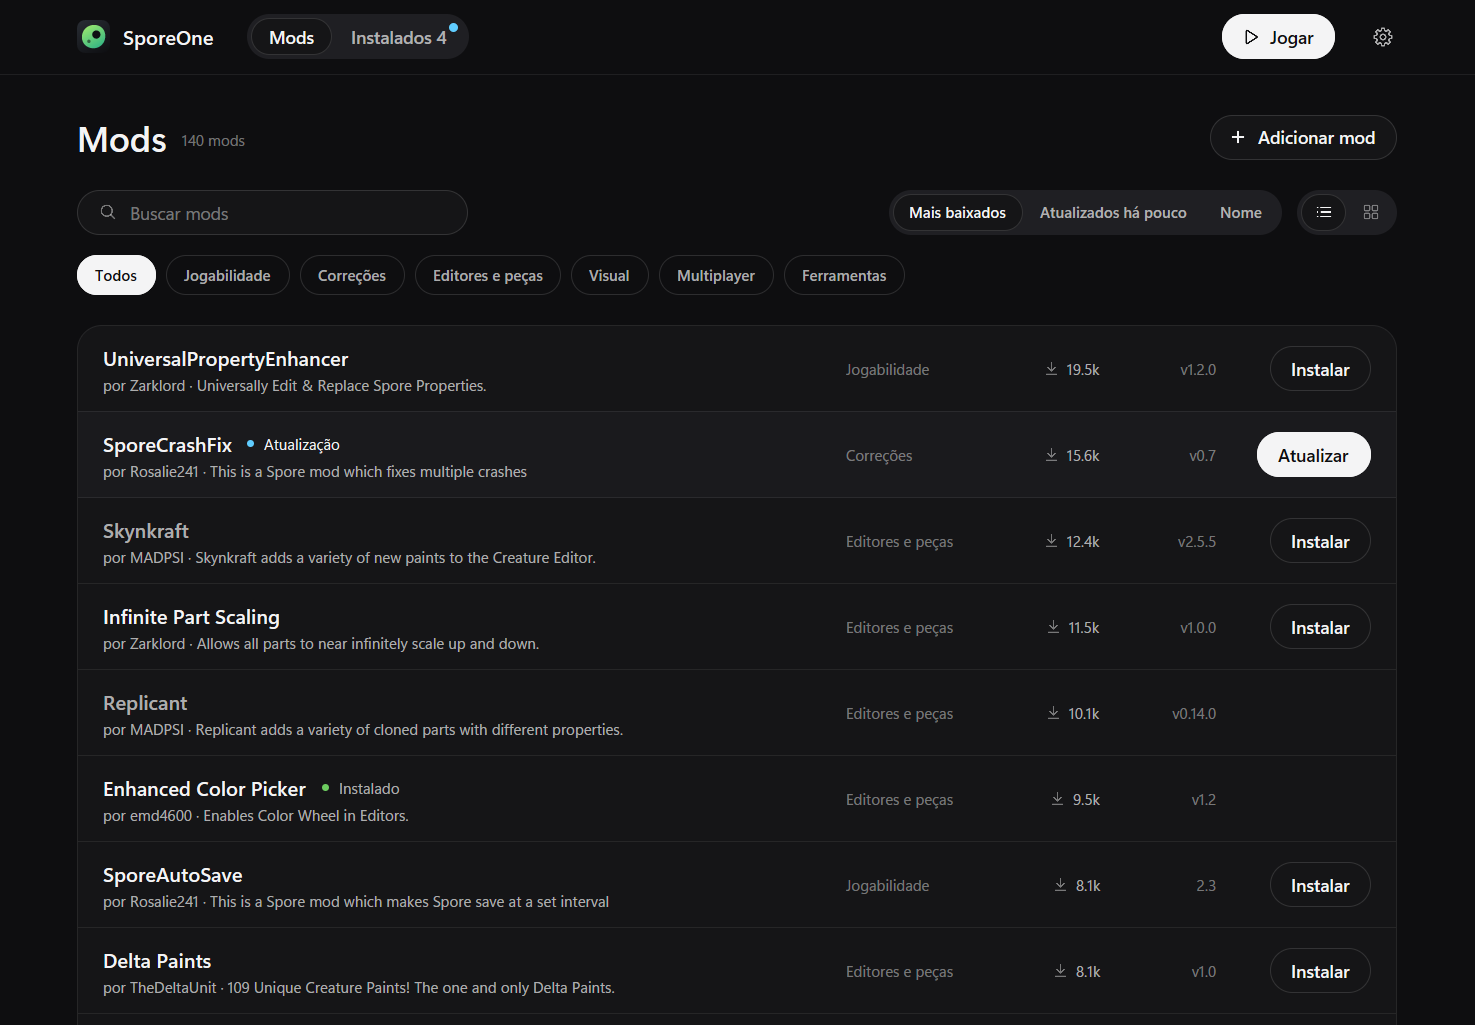
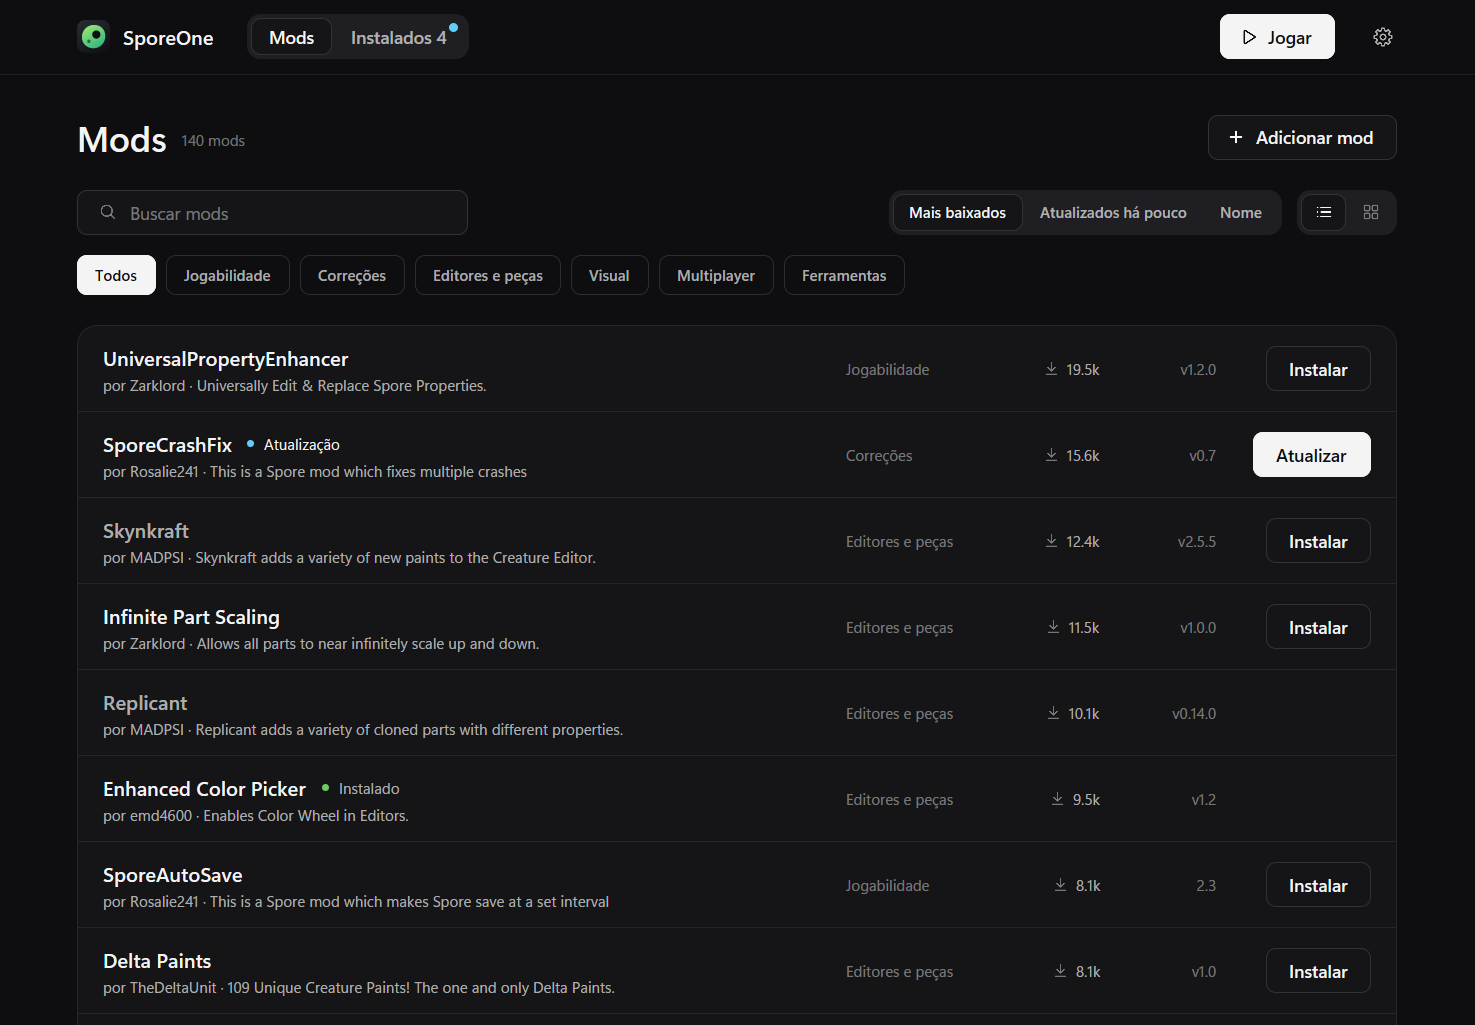
Release 0.0.4

diff --git a/crates/sporeone/src/settings.rs b/crates/sporeone/src/settings.rs
@@ -3,7 +3,7 @@
 
 use crate::theme::{Theme, icon as glyph};
 use crate::ui::{AppUpdate, MainView, date, store_name};
-use crate::widgets::{Kind as Button, body, caption, display, group, icon, icon_label_button, row, section, segmented, strong};
+use crate::widgets::{Kind as Button, body, button, caption, display, group, icon, icon_label_button, row, section, segmented, strong};
 use gpui::prelude::FluentBuilder;
 use gpui::{AnyElement, Context, Div, IntoElement, ParentElement, StatefulInteractiveElement, Styled, Window, div, px};
 use sporeone_core::i18n::{Lang, fill};
@@ -21,6 +21,11 @@ fn site(t: &Theme, text: &sporeone_core::i18n::Text) -> gpui::Stateful<Div> {
         .on_click(|_, _, cx| cx.open_url(sporeone_core::launcher_kit::SITE))
 }
 
+/// Picks the folder of a game or Launcher Kit by hand.
+fn locate(id: &'static str, label: &'static str, lk: bool, t: &Theme, cx: &mut Context<MainView>) -> gpui::Stateful<Div> {
+    button(id, label, Button::Subtle, t).on_click(cx.listener(move |this, _, _, cx| this.locate(lk, cx)))
+}
+
 fn open_folder(path: PathBuf) -> impl Fn(&gpui::ClickEvent, &mut Window, &mut gpui::App) + 'static {
     move |_, _, cx| cx.open_url(&format!("file:///{}", path.display().to_string().replace('\\', "/")))
 }
@@ -32,7 +37,14 @@ impl MainView {
         let env = self.env.clone();
         let mut game = group(&t);
         match env.game() {
-            None => game = game.child(row(&t).child(icon(glyph::WARNING, 16., t.caution)).child(body(text.game_none, t.text).flex_1())),
+            None => {
+                game = game.child(
+                    row(&t)
+                        .child(icon(glyph::WARNING, 16., t.caution))
+                        .child(body(text.game_none, t.text).flex_1().min_w(px(0.)))
+                        .child(locate("game-locate", text.choose_folder, false, &t, cx)),
+                )
+            }
             Some(g) => {
                 let root = g.root.clone();
                 game = game
@@ -43,7 +55,8 @@ impl MainView {
                             .child(
                                 icon_label_button("game-folder", glyph::FOLDER, text.open_folder, Button::Subtle, &t)
                                     .on_click(open_folder(root)),
-                            ),
+                            )
+                            .child(locate("game-change", text.change_folder, false, &t, cx)),
                     )
                     .child(line(text.game_ga, if g.has_ga() { text.yes } else { text.no }.into(), Some(g.has_ga()), &t))
                     .child(line(
@@ -79,7 +92,7 @@ impl MainView {
             None => {
                 let busy = self.busy.contains_key("launcher-kit");
                 lk = lk.child(
-                    row(&t).child(body(text.lk_none, t.text).flex_1()).child(
+                    row(&t).child(body(text.lk_none, t.text).flex_1()).child(locate("lk-locate", text.choose_folder, true, &t, cx)).child(
                         icon_label_button(
                             "lk-install",
                             glyph::DOWNLOAD,
@@ -106,7 +119,8 @@ impl MainView {
                             .child(
                                 icon_label_button("lk-folder", glyph::FOLDER, text.open_folder, Button::Subtle, &t)
                                     .on_click(open_folder(dir)),
-                            ),
+                            )
+                            .child(locate("lk-change", text.change_folder, true, &t, cx)),
                     )
                     .child(line(text.lk_version, k.version.map(|v| v.to_string()).unwrap_or_default(), None, &t))
                     .child(line(text.lk_dlls, k.dlls_build.map(|v| v.to_string()).unwrap_or_default(), None, &t));

diff --git a/crates/sporeone/src/widgets.rs b/crates/sporeone/src/widgets.rs
@@ -144,7 +144,7 @@ fn button_base(id: impl Into<ElementId>, kind: Kind, t: &Theme) -> Stateful<Div>
         .justify_center()
         .gap(px(8.))
         .h(px(36.))
-        .px(px(16.))
+        .px(px(18.))
         .rounded(px(radius::CONTROL))
         .bg(bg)
         .border_1()
@@ -167,7 +167,7 @@ pub fn icon_button(id: impl Into<ElementId>, glyph: &'static str, t: &Theme) -> 
         .items_center()
         .justify_center()
         .size(px(36.))
-        .rounded_full()
+        .rounded(px(radius::CONTROL))
         .cursor_pointer()
         .hover(move |s| s.bg(hover))
         .child(icon(glyph, 18., t.text2))
@@ -183,7 +183,7 @@ pub fn segmented<T: Copy + PartialEq + 'static, V: 'static>(
     on_pick: impl Fn(&mut V, T, &mut Context<V>) + 'static,
 ) -> Div {
     let on_pick = std::rc::Rc::new(on_pick);
-    let mut d = div().flex().flex_none().gap(px(2.)).p(px(3.)).rounded_full().bg(t.control);
+    let mut d = div().flex().flex_none().gap(px(2.)).p(px(3.)).rounded(px(radius::TRACK)).bg(t.control);
     for (i, (value, label)) in choices.into_iter().enumerate() {
         let on = value == picked;
         let on_pick = on_pick.clone();
@@ -196,7 +196,7 @@ pub fn segmented<T: Copy + PartialEq + 'static, V: 'static>(
                 .min_w(px(56.))
                 .h(px(30.))
                 .px(px(12.))
-                .rounded_full()
+                .rounded(px(radius::CONTROL))
                 .cursor_pointer()
                 .when(on, |d| d.bg(t.layer).border_1().border_color(t.stroke_strong))
                 .child(caption(label, if on { t.text } else { t.text2 }).font_weight(FontWeight::MEDIUM))
@@ -216,7 +216,7 @@ pub fn icon_segmented<T: Copy + PartialEq + 'static, V: 'static>(
     on_pick: impl Fn(&mut V, T, &mut Context<V>) + 'static,
 ) -> Div {
     let on_pick = std::rc::Rc::new(on_pick);
-    let mut d = div().flex().flex_none().gap(px(2.)).p(px(3.)).rounded_full().bg(t.control);
+    let mut d = div().flex().flex_none().gap(px(2.)).p(px(3.)).rounded(px(radius::TRACK)).bg(t.control);
     for (i, (value, glyph, tip)) in choices.into_iter().enumerate() {
         let on = value == picked;
         let on_pick = on_pick.clone();
@@ -227,7 +227,7 @@ pub fn icon_segmented<T: Copy + PartialEq + 'static, V: 'static>(
             .justify_center()
             .w(px(36.))
             .h(px(30.))
-            .rounded_full()
+            .rounded(px(radius::CONTROL))
             .cursor_pointer()
             .when(on, |d| d.bg(t.layer).border_1().border_color(t.stroke_strong))
             .child(icon(glyph, 16., if on { t.text } else { t.text3 }))
@@ -259,7 +259,7 @@ pub fn filters<T: Copy + PartialEq + 'static, V: 'static>(
                 .items_center()
                 .h(px(32.))
                 .px(px(14.))
-                .rounded_full()
+                .rounded(px(radius::CONTROL))
                 .border_1()
                 .cursor_pointer()
                 .when(on, |d| d.bg(t.primary).border_color(t.primary))

diff --git a/crates/sporeone/src/ui.rs b/crates/sporeone/src/ui.rs
@@ -443,6 +443,42 @@ impl MainView {
         .detach();
     }
 
+    /// Asks for the folder of a game or Launcher Kit SporeOne did not find, and keeps it.
+    pub fn locate(&mut self, lk: bool, cx: &mut Context<Self>) {
+        let picked = cx.prompt_for_paths(PathPromptOptions { files: false, directories: true, multiple: false, prompt: None });
+        cx.spawn(async move |this, cx| {
+            let Ok(Ok(Some(paths))) = picked.await else { return };
+            let Some(dir) = paths.into_iter().next() else { return };
+            let _ = this.update(cx, |this, cx| {
+                let mut st = State::load();
+                let ok = if lk {
+                    let ok = sporeone_core::launcher_kit::is_launcher_kit(&dir);
+                    if ok {
+                        st.lk_dir = Some(dir);
+                    }
+                    ok
+                } else {
+                    let root = sporeone_core::game::game_root(&dir);
+                    let ok = root.is_some();
+                    if ok {
+                        st.game_dir = root;
+                    }
+                    ok
+                };
+                if ok {
+                    let _ = st.save();
+                    this.notice = None;
+                    this.reread(cx);
+                } else {
+                    let t = this.text;
+                    this.notice = Some(Notice { ok: false, text: (if lk { t.lk_wrong } else { t.game_wrong }).to_string() });
+                    cx.notify();
+                }
+            });
+        })
+        .detach();
+    }
+
     /// Takes a mod added from a link off the list. What is installed stays.
     pub fn remove_custom(&mut self, id: &str, cx: &mut Context<Self>) {
         let mut st = State::load();
@@ -603,7 +639,7 @@ impl MainView {
             .items_center()
             .h(px(30.))
             .px(px(14.))
-            .rounded_full()
+            .rounded(px(radius::CONTROL))
             .cursor_pointer()
             .when(on, |d| d.bg(t.layer).border_1().border_color(t.stroke_strong))
             .child(body(label, if on { t.text } else { t.text2 }).font_weight(gpui::FontWeight::MEDIUM))
@@ -640,7 +676,7 @@ impl MainView {
             .items_center()
             .gap(px(2.))
             .p(px(3.))
-            .rounded_full()
+            .rounded(px(radius::TRACK))
             .bg(t.control)
             .child(self.nav("nav-catalog", text.catalog.to_string(), Screen::Catalog, cx))
             .child(

diff --git a/crates/sporeone-core/src/game.rs b/crates/sporeone-core/src/game.rs
@@ -174,7 +174,26 @@ pub fn find() -> Vec<Game> {
             add(Game::at(&root, None, None, false));
         }
     }
+    // A folder picked by hand comes first, as found above when it was there too.
+    if let Some(dir) = crate::state::State::load().game_dir.filter(|d| is_game_root(d)) {
+        let key = |p: &Path| p.to_string_lossy().trim_end_matches(['\\', '/']).to_ascii_lowercase();
+        let game = match found.iter().position(|g| key(&g.root) == key(&dir)) {
+            Some(i) => found.remove(i),
+            None => Game::at(&dir, None, None, false),
+        };
+        found.insert(0, game);
+    }
     found
+}
+
+/// Whether `dir` is a Spore folder: the one holding `SporebinEP1` or `Data`.
+pub fn is_game_root(dir: &Path) -> bool {
+    dir.join("SporebinEP1").is_dir() || dir.join("Data").is_dir()
+}
+
+/// The game's folder from one picked inside it, such as `SporebinEP1` or `DataEP1`.
+pub fn game_root(picked: &Path) -> Option<PathBuf> {
+    picked.ancestors().take(2).find(|d| is_game_root(d)).map(Path::to_path_buf)
 }
 
 /// `steamapps\common\Spore` in every Steam library that has Spore or Galactic Adventures.
@@ -238,6 +257,16 @@ pub fn is_game_file(name: &str) -> bool {
 #[cfg(test)]
 mod tests {
     use super::*;
+
+    #[test]
+    fn a_folder_picked_inside_the_game_finds_its_root() {
+        let root = std::env::temp_dir().join(format!("sporeone-root-{}", std::process::id()));
+        std::fs::create_dir_all(root.join("SporebinEP1")).unwrap();
+        assert_eq!(game_root(&root), Some(root.clone()));
+        assert_eq!(game_root(&root.join("SporebinEP1")), Some(root.clone()));
+        assert_eq!(game_root(root.parent().unwrap()), None);
+        std::fs::remove_dir_all(&root).unwrap();
+    }
 
     #[test]
     fn reads_steam_library_folders() {

diff --git a/crates/sporeone-core/src/i18n.rs b/crates/sporeone-core/src/i18n.rs
@@ -197,6 +197,10 @@ pub struct Text {
     pub update_check: &'static str,
     pub update_checking: &'static str,
     pub update_latest: &'static str,
+    pub choose_folder: &'static str,
+    pub change_folder: &'static str,
+    pub lk_wrong: &'static str,
+    pub game_wrong: &'static str,
 }
 
 pub static EN: Text = Text {
@@ -346,6 +350,10 @@ pub static EN: Text = Text {
     update_check: "Check for updates",
     update_checking: "Checking",
     update_latest: "This is the latest version.",
+    choose_folder: "Choose its folder",
+    change_folder: "Change",
+    lk_wrong: "That folder has no Spore ModAPI Launcher.exe.",
+    game_wrong: "That is not Spore's folder: it has no SporebinEP1 or Data folder.",
 };
 
 pub static PT: Text = Text {
@@ -495,6 +503,10 @@ pub static PT: Text = Text {
     update_check: "Procurar atualização",
     update_checking: "Procurando",
     update_latest: "Esta é a versão mais nova.",
+    choose_folder: "Escolher a pasta",
+    change_folder: "Trocar",
+    lk_wrong: "Essa pasta não tem o Spore ModAPI Launcher.exe.",
+    game_wrong: "Essa não é a pasta do Spore: não tem SporebinEP1 nem Data.",
 };
 
 pub fn text(lang: Lang) -> &'static Text {

diff --git a/crates/sporeone-core/src/launcher_kit.rs b/crates/sporeone-core/src/launcher_kit.rs
@@ -40,8 +40,14 @@ pub fn find() -> Option<LauncherKit> {
     if let Some(dir) = std::env::var_os("SPOREONE_LK_DIR") {
         return Some(LauncherKit::at(Path::new(&dir)));
     }
+    let chosen = crate::state::State::load().lk_dir;
     let noted = appdata().and_then(|a| std::fs::read_to_string(a.join("path.info")).ok()).map(|s| PathBuf::from(s.trim()));
-    noted.into_iter().chain(default_dirs()).find(|dir| dir.join(LAUNCHER_EXE).is_file()).map(|dir| LauncherKit::at(&dir))
+    chosen.into_iter().chain(noted).chain(default_dirs()).find(|dir| is_launcher_kit(dir)).map(|dir| LauncherKit::at(&dir))
+}
+
+/// Whether `dir` holds a Launcher Kit.
+pub fn is_launcher_kit(dir: &Path) -> bool {
+    dir.join(LAUNCHER_EXE).is_file()
 }
 
 impl LauncherKit {

diff --git a/crates/sporeone/src/theme.rs b/crates/sporeone/src/theme.rs
@@ -35,13 +35,14 @@ pub mod layout {
     pub const GUTTER: f32 = 32.;
 }
 
-/// Corner radii, concentric: a control is round at its ends, and what holds controls is rounder by
-/// its padding.
+/// Corner radii, concentric: what holds others is rounder by its padding.
 pub mod radius {
-    pub const SURFACE: f32 = 28.;
-    pub const PANEL: f32 = 20.;
-    pub const CONTROL: f32 = 18.;
-    pub const SMALL: f32 = 12.;
+    pub const SURFACE: f32 = 20.;
+    pub const PANEL: f32 = 16.;
+    /// A row of choices, around controls 3 pixels in.
+    pub const TRACK: f32 = 11.;
+    pub const CONTROL: f32 = 8.;
+    pub const SMALL: f32 = 8.;
 }
 
 /// The icons, by name (see `crate::icons`).

diff --git a/crates/sporeone-core/src/state.rs b/crates/sporeone-core/src/state.rs
@@ -40,6 +40,9 @@ pub struct State {
     pub custom: Vec<Entry>,
     /// The catalog as tiles rather than a list.
     pub grid: bool,
+    /// Folders picked by hand, for a game or a Launcher Kit SporeOne did not find.
+    pub game_dir: Option<PathBuf>,
+    pub lk_dir: Option<PathBuf>,
 }
 
 impl State {

diff --git a/README.md b/README.md
@@ -13,7 +13,7 @@ It keeps mods up to date and updates itself from its own releases. You can also 
 not in the catalog, from a GitHub link or by dropping its file on the window, and suggest one for
 the catalog with a button.
 
-Version 0.0.3. SporeOne is not made by EA or Maxis, and the mods it lists are their authors' work.
+Version 0.0.4. SporeOne is not made by EA or Maxis, and the mods it lists are their authors' work.
 
 ## Install
 

diff --git a/CHANGELOG.md b/CHANGELOG.md
@@ -1,5 +1,11 @@
 # Changelog
 
+## 0.0.4
+
+The game's folder and the Launcher Kit's can be chosen by hand in the settings, for when SporeOne
+does not find them, and changed when there are several copies. Buttons and fields have softer
+corners and more room around their text.
+
 ## 0.0.3
 
 Finds a Launcher Kit that was just installed, before its launcher has been opened once, and the
